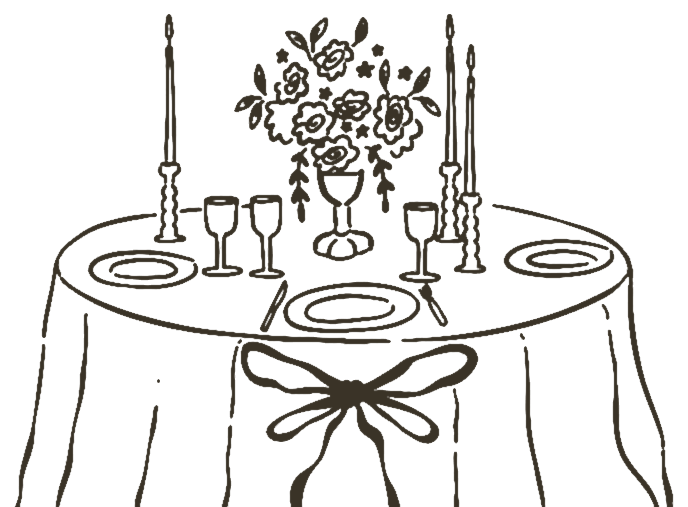
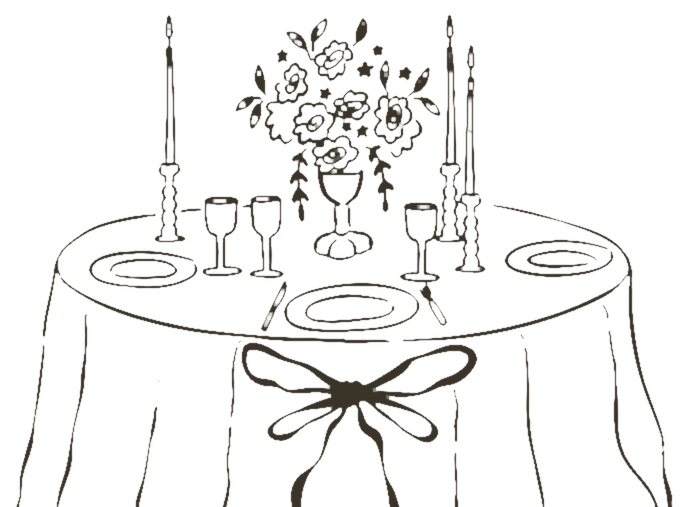
Track landing goals and tune runner

diff --git a/public/main/index.html b/public/main/index.html
@@ -194,5 +194,24 @@
     </section>
 
     <script src="script.js"></script>
+
+    <!-- Landing conversions -> Yandex.Metrika goals -->
+    <script type="text/javascript">
+        (function () {
+            var ID = 109975054;
+            function goal(name) { if (window.ym) window.ym(ID, 'reachGoal', name); }
+            document.addEventListener('click', function (e) {
+                var a = e.target && e.target.closest ? e.target.closest('a') : null;
+                if (!a) return;
+                var href = a.getAttribute('href') || '';
+                var text = (a.textContent || '');
+                if (/docs\.google\.com\/forms/.test(href)) goal('rsvp_form');
+                else if (/t\.me\//.test(href)) goal('contact_telegram');
+                else if (/^tel:/.test(href)) goal('contact_phone');
+                else if (/yandex\.ru\/maps|google\.[a-z.]+\/maps|maps\./.test(href)) goal('map_click');
+                else if (/цвет/i.test(text)) goal('flowers_click');
+            }, true);
+        })();
+    </script>
 </body>
 </html>

diff --git a/src/game/WeddingGame.ts b/src/game/WeddingGame.ts
@@ -675,6 +675,7 @@ class RunnerScene extends Phaser.Scene {
   private kaya?: Phaser.GameObjects.Image;
   private kayaCover?: Phaser.GameObjects.Image;
   private kayaPawTaken = new Set<number>();
+  private kayaHintShown = false;
 
   private heartText!: Phaser.GameObjects.Text;
   private progressText!: Phaser.GameObjects.Text;
@@ -770,6 +771,7 @@ class RunnerScene extends Phaser.Scene {
     this.kaya = undefined;
     this.kayaCover = undefined;
     this.kayaPawTaken = new Set();
+    this.kayaHintShown = false;
     // scene instances are reused across replays — drop stale refs to destroyed emitters
     this.rain = undefined;
     this.petals = undefined;
@@ -1117,6 +1119,12 @@ class RunnerScene extends Phaser.Scene {
     this.kaya = this.add.image(baseX + spot.dx, this.groundY, k.texture).setOrigin(0.5, 1).setDepth(6);
     scaleTo(this.kaya, k.h);
     this.kaya.setInteractive({ useHandCursor: true });
+    // First time Kaya appears, tell the player what to do — she's small and easy
+    // to miss, and tapping her (not jumping) is a non-obvious second mechanic.
+    if (!this.kayaHintShown) {
+      this.kayaHintShown = true;
+      this.showToast('Кая спряталась рядом 🐾\nТапни по ней, чтобы найти', 2800);
+    }
   }
 
   private scrollKaya(dt: number) {
@@ -1300,6 +1308,10 @@ class RunnerScene extends Phaser.Scene {
         this.onGround = true;
         this.player.play('run', true);
         this.spawnFx('dust', PLAYER_X - 4, this.groundY, 48);
+        // Bunny-hop: if the jump input is still held on touchdown, chain straight
+        // into another hop so a held tap flows over a run of obstacles. Release to
+        // land and run (needed to pass under the airborne cloud obstacles).
+        if (this.holding) this.jump();
       }
     } else {
       this.onGround = false;
@@ -1392,7 +1404,11 @@ class RunnerScene extends Phaser.Scene {
   private tryHit(m: Mover) {
     if (m.hit || this.time.now < this.invulnUntil) return;
     const o = m.obj;
-    const w = o.displayWidth * 0.5;
+    // Cap hitbox width relative to height so very wide obstacles (the car is
+    // ~2.7:1 → ~160px at h=60) don't get an unclearable box: a tap-jump can't
+    // stay airborne long enough to pass an 80px-wide box. Tall/narrow obstacles
+    // (traffic light, bollard) are unaffected since their width is already small.
+    const w = Math.min(o.displayWidth * 0.5, o.displayHeight * 0.7);
     const h = o.displayHeight * (m.cloud ? 0.5 : 0.6);
     const cy = o.y - o.displayHeight * 0.5;
     const box = new Phaser.Geom.Rectangle(o.x - w / 2, cy - h / 2, w, h);

diff --git a/public/main/style.css b/public/main/style.css
@@ -53,7 +53,6 @@ body {
     color: var(--ink);
     background: var(--paper);
     overflow-x: hidden;
-    overscroll-behavior-y: none;
 }
 
 img { display: block; max-width: 100%; height: auto; }
@@ -610,8 +609,8 @@ a:focus-visible,
     opacity: 0.85;
     z-index: 0;
 }
-.rsvp__ribbon--tl { top: clamp(6px, 12vw, 92px); left: clamp(2px, -18vw, 16px); }
-.rsvp__ribbon--br { bottom: clamp(6px, 12vw, 92px); right: clamp(2px, -18vw, 16px); transform: rotate(180deg); }
+.rsvp__ribbon--tl { top: clamp(6px, 12vw, 102px); left: clamp(-12px, -28vw, 6px); }
+.rsvp__ribbon--br { bottom: clamp(6px, 12vw, 92px); right: clamp(-12px, -18vw, 16px); transform: rotate(180deg); }
 
 .rsvp__inner { position: relative; z-index: 1; max-width: 320px; margin: 0 auto; }
 